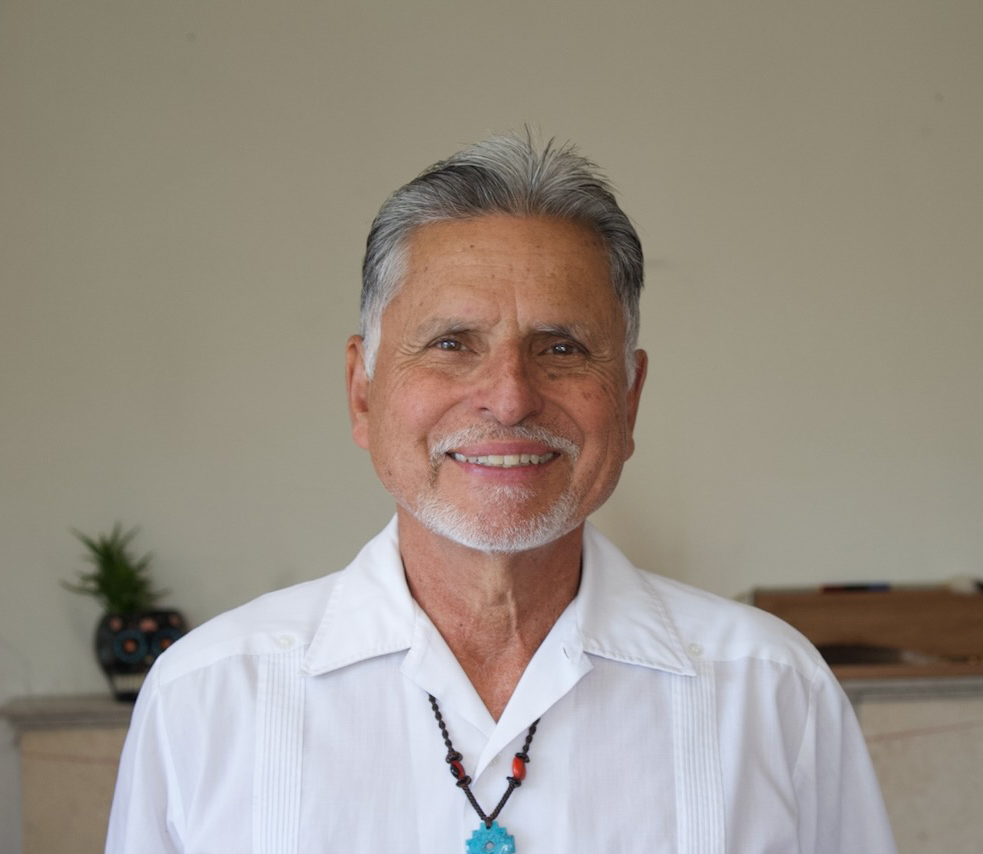
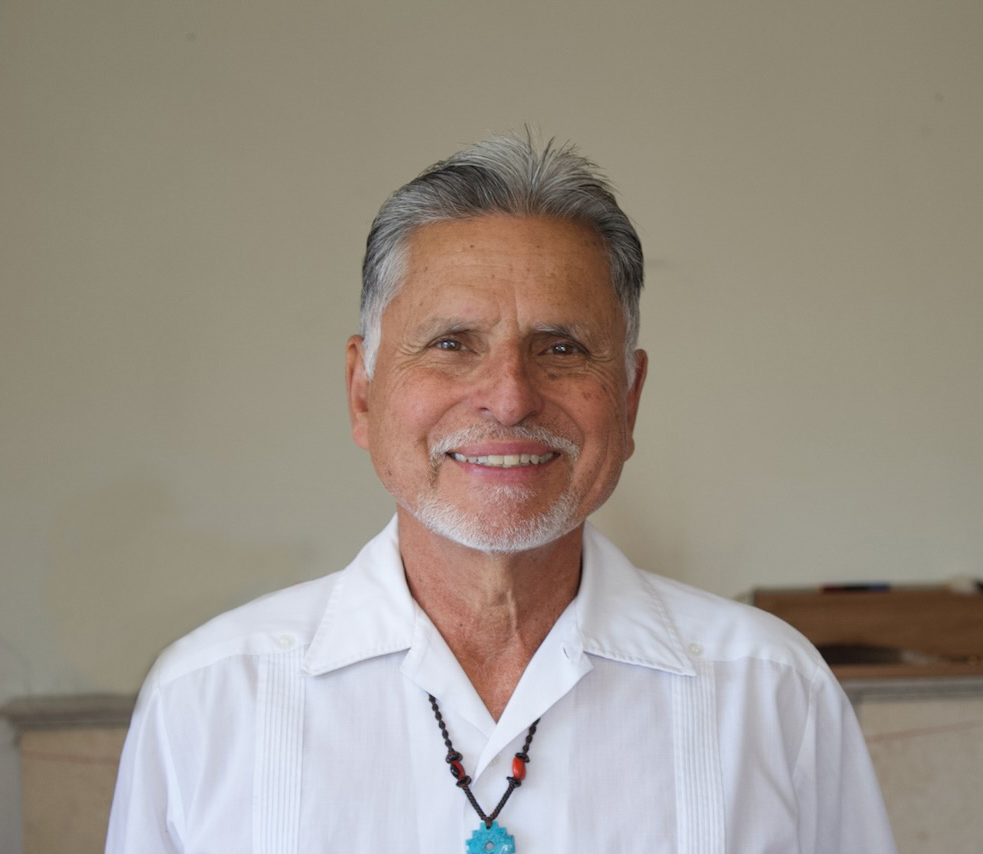
update

Changed region(s): [[0.061, 0.6089, 0.2136, 0.8525]]

diff --git a/curanderismo.html b/curanderismo.html
@@ -85,8 +85,8 @@
           highly recommend him to anyone who wants to explore the evolution of their souls and spirits.”</p>
         <p class="tone-down italic">~Elena Avila, MSN, RN, Curandera </p>
       </blockquote>
-
-      <p><img src="/images/conch1.jpeg" alt="curandersimo image" width="" height="196" class="img-left" />I was also
+      <img src="/images/conch2.jpeg" alt="curandersimo image" width="" height="196" class="img-left" />
+      <p>I was also
         fortunate to have met and spend time with Elena's teacher, <span class="italic">Miktlan Ehekateotl
           Kuahtlinxan</span>, who had
         an active role in my initiation. As a 13th generation curandero in the Tezcatlipoca tradition, he is featured in
@@ -105,7 +105,8 @@
         many illnesses are caused by lost malevolent spirits, a lesson from God, or curse.</p>
       <p>There are different types of curanderos. “Yerberos” are primarily herbalists. “Hueseros and Sobaderos” are
         bone/muscle therapists who emphasize physical ailments. &quot;Parteras&quot; are midwives.&quot;</p> -->
-      <h3><img src="images/curand-7.jpg" alt="Wm Guillermo Ortiz" width="240" height="" class="img-right" />What is
+        <!-- <img src="images/curand-7.jpg" alt="Wm Guillermo Ortiz" width="240" height="" class="img-right" /> --><!-- 
+        <h3>What is
         involved?</h3>
       <p>Among the curandero's tools, the most important is the heart. The tangible implements are symbols of the
         healer's spiritual faith and relationship to Mother Earth. There is a great awareness of ceremony, honoring
@@ -115,18 +116,18 @@
         Alters contain symbols of the four elements — earth, water, fire and air — and other articles illustrative of
         forces called upon to assist in healing. Candles with pictures of saints, religious statues, flowers and herbs
         are included. Everything in the curandero's healing practice and lifestyle is infused with a relationship to
-        nature and God.</p>
+        nature and God.</p> -->
     </div>
 
     <form action="http://www.wmguillermo.com/cgi-bin/FormMail.pl" method="POST"
-      enctype="application/x-www-form-urlencoded">
+      enctype="application/x-www-form-urlencoded" >
 
       <input type="hidden" name="recipient" value="info">
       <input type="hidden" name="subject" value="wmguillermo.com contact">
       <input type="hidden" name="redirect" value="http://www.wmguillermo.com/contact-response.html">
-      <div class="box">
-        <h1>For more info call me at 510-685-8270, or, use this form: </h1>
-        <label>
+      <div class="box margin-top">
+<!--         <h1>For more info call me at 510-685-8270, or, use this form: </h1>
+ -->        <label>
           <span>Name</span> <input type="text" class="input_text" name="realname" id="realname" />
         </label>
         <label>

diff --git a/ministry.html b/ministry.html
@@ -52,7 +52,7 @@
         rites and public ceremonies.</p>
       <p> </p>
       <h3>Weddings</h3>
-      <p>As a duly ordained minister, M. Div., I offer wedding services from the simple to the elaborate. I will
+      <p>As a duly ordained minister, I offer wedding services from the simple to the elaborate. I will
         initially meet with the prospective couple to see if we're a right fit. If so, we proceed to determine the look
         and feel of the ceremony, vows, special requests, readings, music, rehearsal, etc. Since weddings are joyous
         ceremonies that celebrate the union of loving couples, it’s important to center the occasion on their love story
@@ -79,8 +79,8 @@
       <input type="hidden" name="subject" value="wmguillermo.com contact/ministry">
       <input type="hidden" name="redirect" value="http://www.wmguillermo.com/contact-response.html">
       <div class="box">
-        <h1> Call me at 510-685-8270, or, use this form: </h1>
-        <label>
+<!--         <h1> Call me at 510-685-8270, or, use this form:  --><!-- Cantact Form </h1>
+ -->        <label>
           <span>Name</span> <input type="text" class="input_text" name="realname" id="realname" />
         </label>
         <label>

diff --git a/index.html b/index.html
@@ -118,8 +118,8 @@
       <input type="hidden" name="subject" value="wmguillermo.com contact/home page">
       <input type="hidden" name="redirect" value="http://www.wmguillermo.com/contact-response.html">
       <div class="box">
-        <h1>You can contact me at 510-685-8270, or, use this form: </h1>
-        <label>
+<!--         <h1>You can contact me at 510-685-8270, or, use this form: </h1>
+ -->        <label>
           <span>Name</span> <input type="text" class="input_text" name="realname" id="realname" />
         </label>
         <label>

diff --git a/movement.html b/movement.html
@@ -90,8 +90,8 @@
       <input type="hidden" name="subject" value="wmguillermo.com contact/movement">
       <input type="hidden" name="redirect" value="http://www.wmguillermo.com/contact-response.html">
       <div class="box">
-        <h1> Call me at 510-685-8270, or, use this form: </h1>
-        <label>
+<!--         <h1> Call me at 510-685-8270, or, use this form: </h1>
+ -->        <label>
           <span>Name</span> <input type="text" class="input_text" name="realname" id="realname" />
         </label>
         <label>

diff --git a/about.html b/about.html
@@ -159,8 +159,8 @@
         <input type="hidden" name="redirect" value="http://www.wmguillermo.com/contact-response.html">
 
         <div class="box">
-          <h1>Let's Connect. Call me at 510-685-8270, or, use this form: </h1>
-          <label>
+<!--           <h1>Let's Connect. Call me at 510-685-8270, or, use this form: </h1>
+ -->          <label>
             <span>Name</span> <input type="text" class="input_text" name="realname" id="realname" />
           </label>
           <label>

diff --git a/thanks.html b/thanks.html
@@ -63,8 +63,8 @@
       <input type="hidden" name="recipient" value="info">
       <input type="hidden" name="subject" value="wmguillermo.com contact/contact page">
       <div class="box">
-        <h1> Call me at 510-685-8270, or, use this form: </h1>
-        <label>
+<!--         <h1> Call me at 510-685-8270, or, use this form: </h1>
+ -->        <label>
           <span>Name</span> <input type="text" class="input_text" name="realname" id="realname" />
         </label>
         <label>

diff --git a/css/styles.css b/css/styles.css
@@ -611,6 +611,11 @@ hr {
   margin: auto;
   margin-top: 25px;
 }
+
+.margin-top {
+  margin-top: 75px !important;
+}
+
 div.box {
   margin: 0 auto;
   width: 700px;
